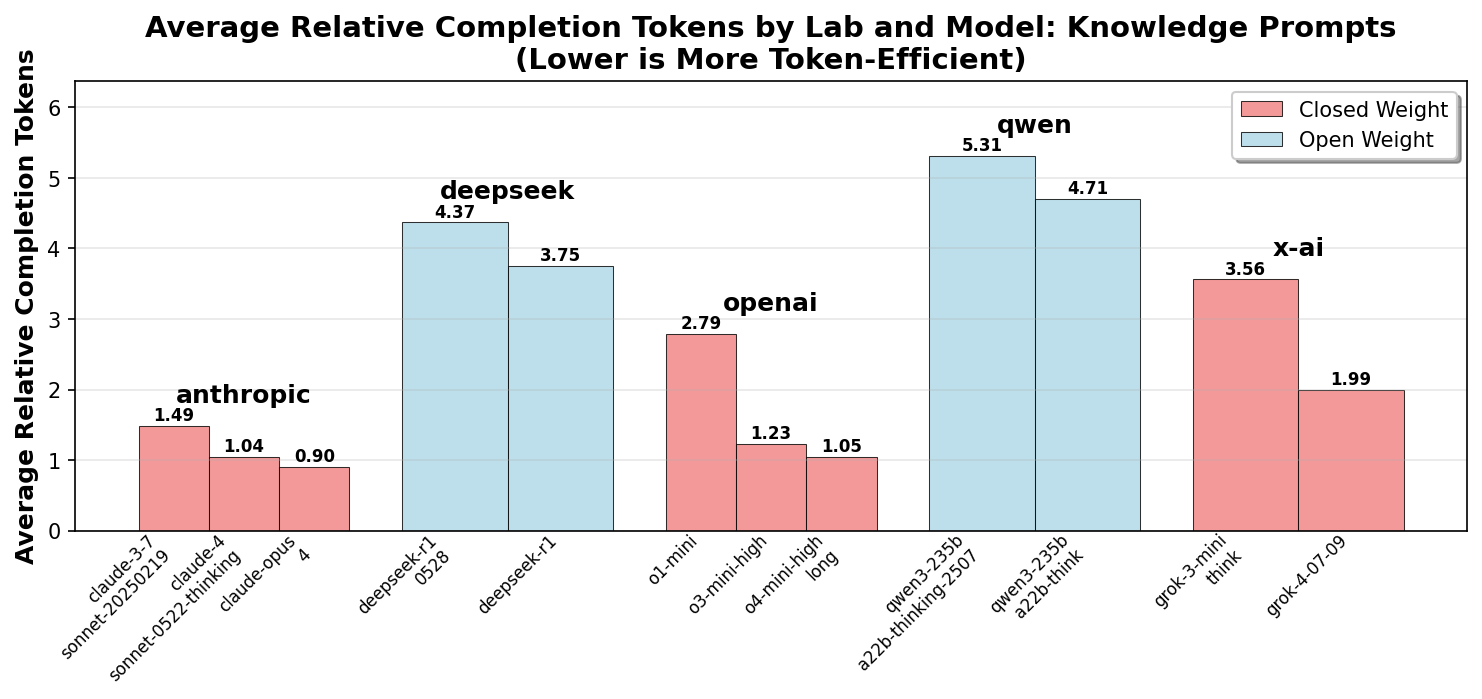
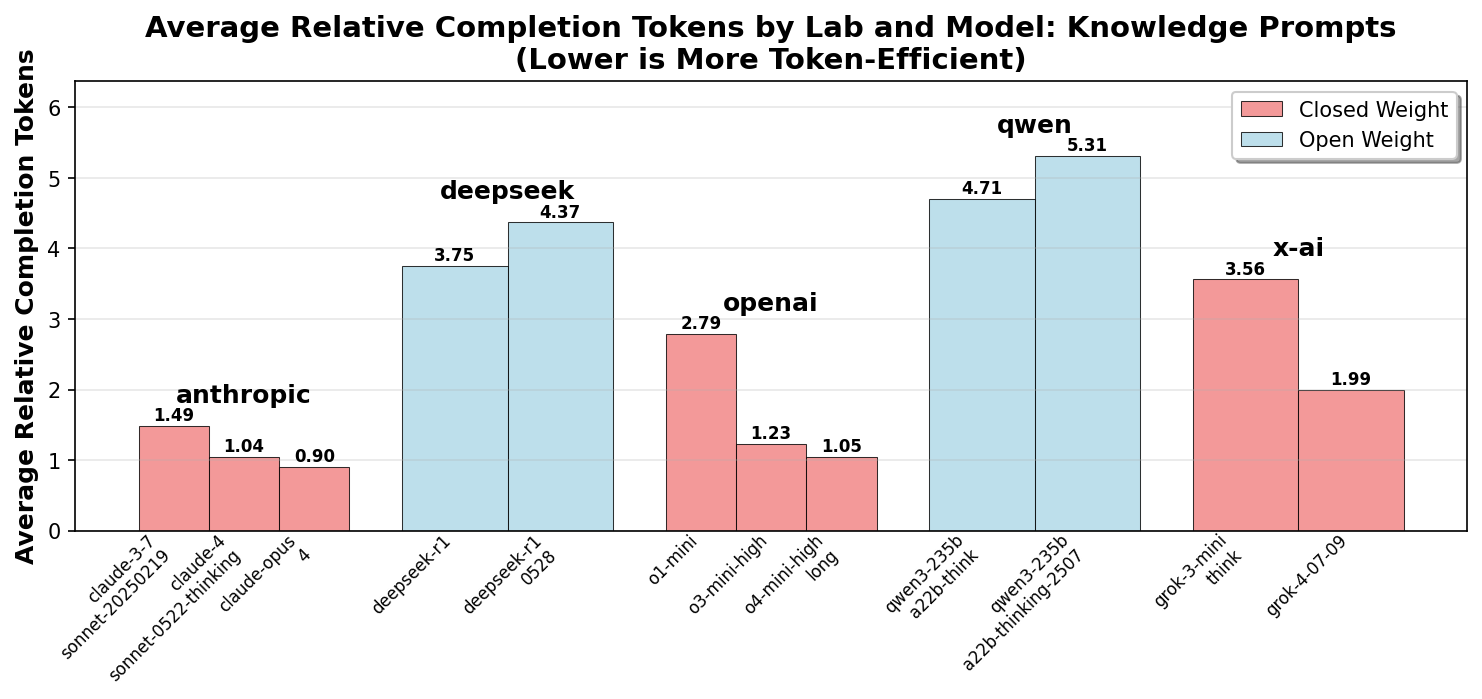
update model trend images

diff --git a/analyze_model_trends.py b/analyze_model_trends.py
@@ -430,7 +430,12 @@ def create_grouped_token_composition_chart(metrics_data: List[Dict[str, Any]], o
     # Plot grouped bars for each lab (only labs with multiple models)
     for i, lab in enumerate(labs_to_display):
         models = lab_model_averages[lab]
-        sorted_models = sorted(models.keys(), key=lambda x: models[x]['completion'], reverse=True)
+        
+        # Sort models: alphabetically for specific labs, by completion tokens for others
+        if lab.lower() in ['qwen', 'openai', 'deepseek']:
+            sorted_models = sorted(models.keys())
+        else:
+            sorted_models = sorted(models.keys(), key=lambda x: models[x]['completion'], reverse=True)
         
         if not sorted_models:
             continue
@@ -638,7 +643,12 @@ def create_grouped_relative_tokens_chart(metrics_data: List[Dict[str, Any]], out
     # Plot grouped bars for each lab (only labs with multiple models)
     for i, lab in enumerate(labs_to_display):
         models = lab_model_data[lab]
-        sorted_models = sorted(models.keys(), key=lambda x: models[x]['relative_tokens'], reverse=True)
+        
+        # Sort models: alphabetically for specific labs, by relative tokens for others
+        if lab.lower() in ['qwen', 'openai', 'deepseek']:
+            sorted_models = sorted(models.keys())
+        else:
+            sorted_models = sorted(models.keys(), key=lambda x: models[x]['relative_tokens'], reverse=True)
         
         if not sorted_models:
             continue
